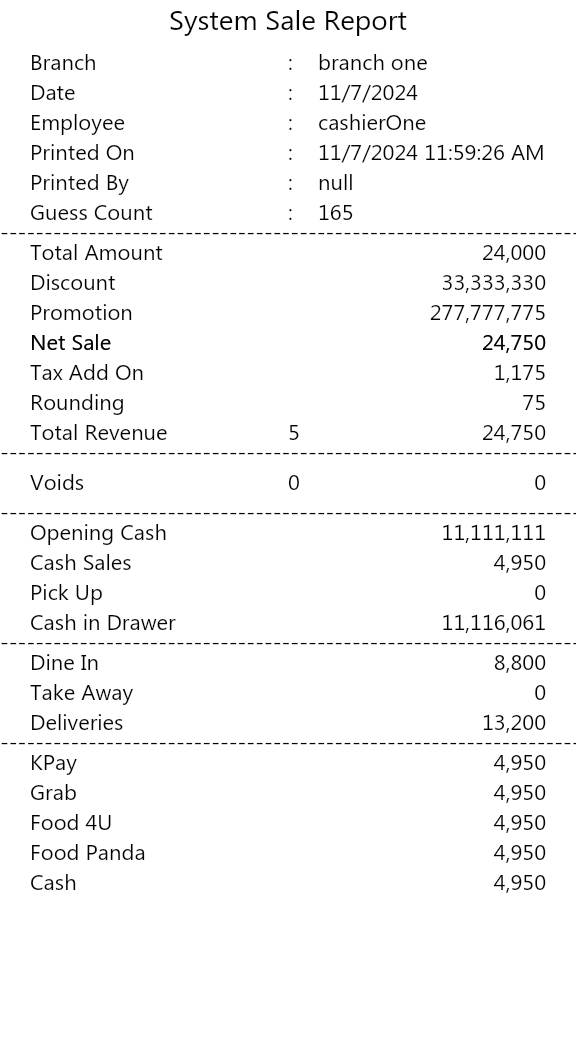
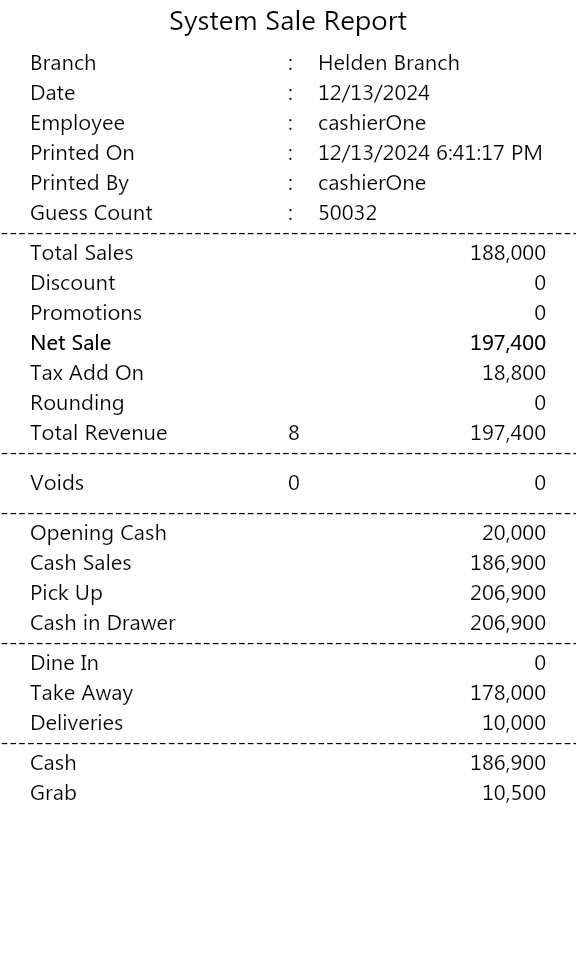
[feautre]: fix cashier drawer

diff --git a/src/models/cashierDrawer/cashierDrawerModel.js b/src/models/cashierDrawer/cashierDrawerModel.js
@@ -58,6 +58,9 @@ const findCashierDrawerByTwoId = async (morningId, eveningId) => {
     const { rows: cashierDrawerData } = await poolQuery(`
         SELECT 
             DATE(created_at) AS date,
+            SUM(total_amount) AS total_amount,
+            SUM(discount) AS discount,
+            SUM(promotion) AS promotion,
             SUM(net_sales) AS net_sales,
             SUM(tax_add_on) AS tax_add_on, 
             SUM(CAST(rounding AS INTEGER)) AS rounding,
@@ -74,7 +77,7 @@ const findCashierDrawerByTwoId = async (morningId, eveningId) => {
             SUM(total_revenue_count) AS total_revenue_count,
             SUM(void_count) AS void_count
         FROM cashier_drawer 
-        WHERE pick_up_date_time IS NOT NULL AND finished = true AND id = $1 OR id = $2
+        WHERE id = $1 OR id = $2
         GROUP BY DATE(created_at)
         `, [morningId, eveningId]);
 
@@ -90,6 +93,9 @@ const  findCashierDrawerByDate = async (date) => {
     const { rows: cashierDrawerData } = await poolQuery(`
         SELECT 
             DATE(created_at) AS date,
+            SUM(total_amount) AS total_amount,
+            SUM(discount) AS discount,
+            SUM(promotion) AS promotion,
             SUM(net_sales) AS net_sales,
             SUM(tax_add_on) AS tax_add_on, 
             SUM(CAST(rounding AS INTEGER)) AS rounding,
@@ -145,9 +151,9 @@ const findCashierDrawerById = async (id) => {
             openingEmployee.username AS openEmployeeName
         FROM cashier_drawer 
         LEFT JOIN employees AS pickUpEmployee
-        ON cashier_drawer.pick_employee_id = pickUpEmployee.id
+            ON cashier_drawer.pick_employee_id = pickUpEmployee.id
         LEFT JOIN employees AS openingEmployee
-        ON cashier_drawer.opening_employee_id = openingEmployee.id
+            ON cashier_drawer.opening_employee_id = openingEmployee.id
         WHERE cashier_drawer.id = $1;
         `, [id]);
 

diff --git a/src/models/cashierDrawer/cashierDrawerDetailModel.js b/src/models/cashierDrawer/cashierDrawerDetailModel.js
@@ -1,7 +1,14 @@
 const poolQuery = require("../../../misc/poolQuery");
 
 const findDetailByCashierDrawerId = async (cashierDrawerId) => {
-    const { rows: cashierDrawerDetails } = await poolQuery(`SELECT id, payment_type, sale_amount FROM cashier_drawer_details WHERE cashier_drawer_id = $1;`, [cashierDrawerId]);
+    const { rows: cashierDrawerDetails } = await poolQuery(`
+        SELECT 
+            id, 
+            payment_type, 
+            sale_amount 
+        FROM cashier_drawer_details 
+        WHERE cashier_drawer_id = $1;
+    `, [cashierDrawerId]);
 
     if(cashierDrawerDetails.length > 0) {
         console.log(`cashierDrawerController [findDetailByCashierDrawerId] cashierDrawerDetails: `, cashierDrawerDetails);
@@ -31,9 +38,11 @@ const findDetailByCashierDrawerIdAndType = async (cashierDrawerId, payment_type)
 
 const findDetailByTwoId = async (morningId, eveningId) => {
     const { rows: cashierDrawerDetails } = await poolQuery(`
-        SELECT payment_type, SUM(sale_amount) AS sale_amount 
+        SELECT 
+            payment_type, 
+            SUM(sale_amount) AS sale_amount 
         FROM cashier_drawer_details
-        WHERE cashier_drawer_id = $1 OR id = $2
+        WHERE cashier_drawer_id = $1 OR cashier_drawer_id = $2
         GROUP BY payment_type
         ;`, [morningId, eveningId]);
 

diff --git a/src/utils/cashierDrawer.js b/src/utils/cashierDrawer.js
@@ -12,16 +12,16 @@ const calculateDrawerAmount = (cashierDrawerData, grand_total_amount, payment_ty
     cashierDrawerData.discount += discount;
     cashierDrawerData.promotion += promotion;
     cashierDrawerData.net_sales += grand_total_amount;
-    cashierDrawerData.tax_add_on += (add_on + tax_amount);
+    cashierDrawerData.tax_add_on += (tax_amount);
     cashierDrawerData.rounding = `${Number(cashierDrawerData.rounding) + Number(rounding)}`;
 
     cashierDrawerData.guest_count += customer_count;
 
     parsedItems.forEach((eachItem) => {
         if(eachItem.is_take_away && type === "self"){
-            cashierDrawerData.die_in += eachItem.total_amount;
-        }else if(!eachItem.is_take_away && type === "self"){
             cashierDrawerData.self_take_away += eachItem.total_amount;
+        }else if(!eachItem.is_take_away){
+            cashierDrawerData.die_in += eachItem.total_amount;
         }else{
             cashierDrawerData.delivery += eachItem.total_amount;
         }

diff --git a/src/utils/stockControl/inventory.js b/src/utils/stockControl/inventory.js
@@ -1,7 +1,4 @@
 const {findInventoryReportItemByDate, insertInventoryReportItem, updateInventoryReportItem} = require("../../models/stock/inventoryReportsModel");
-const {findTransactionItemsByTransactionId} = require("../../models/transaction/transactionItemModel");
-const {calculateStock} = require("./stock");
-const {getComboSetByTransactionId} = require("../../models/transaction/transactionComboSetModel");
 const {getStockItemAndRecipeByMenuId, updateStockQtyById} = require("../../models/stock/stockItemsModel");
 const {reduceRecipeUnit} = require("./recipeUnit");
 

diff --git a/src/controllers/stock/inventoryController.js b/src/controllers/stock/inventoryController.js
@@ -121,9 +121,7 @@ inventoryController.post("/wasteDetails/trigger", async (req, res) => {
 
 inventoryController.post("/finishWasteDetails/trigger", async (req, res) => {
     const event = req.body.event;
-    const action = event.op;
     const inputData = event.data.new ?? event.data.old;
-    const tableName = req.body.table.name;
 
     try{
         const isTakeAway = inputData.takeaway ? "takeaway" : "dine_in";

diff --git a/src/controllers/stock/stockController.js b/src/controllers/stock/stockController.js
@@ -34,7 +34,6 @@ stockController.post("/calculate", async (req, res) => {
     }
 });
 
-
 stockController.post("/generateDocNo", async (req, res) => {
     const { tableName } = req.body.input ?? req.body;
     let latestDocNo = "";
